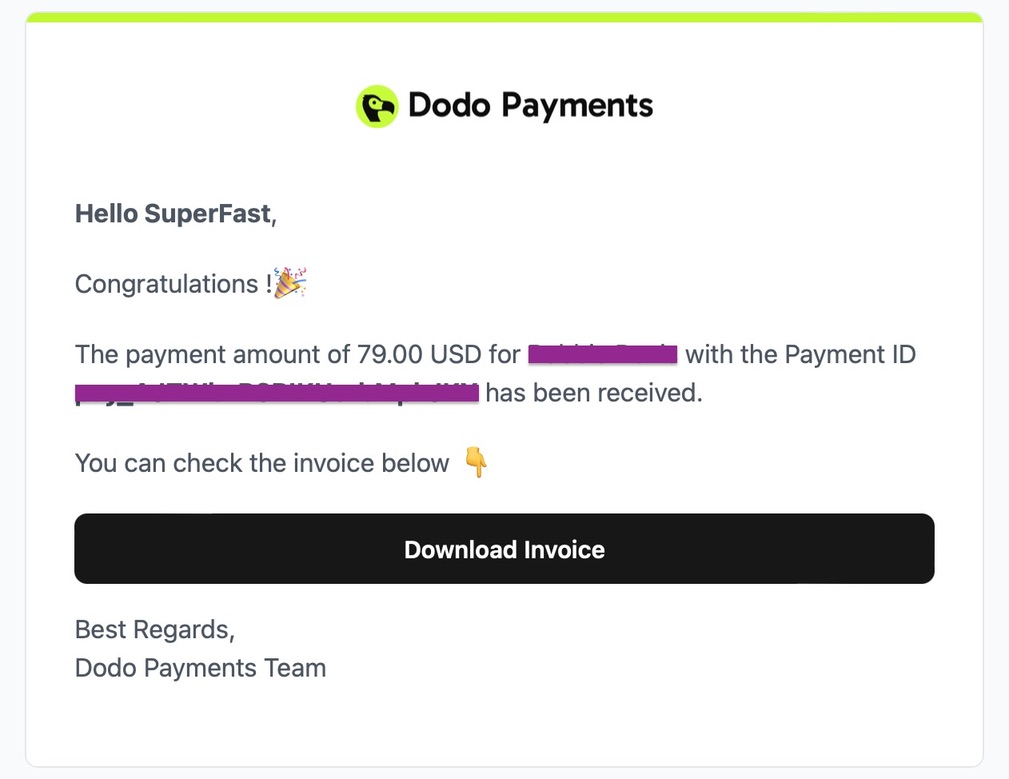
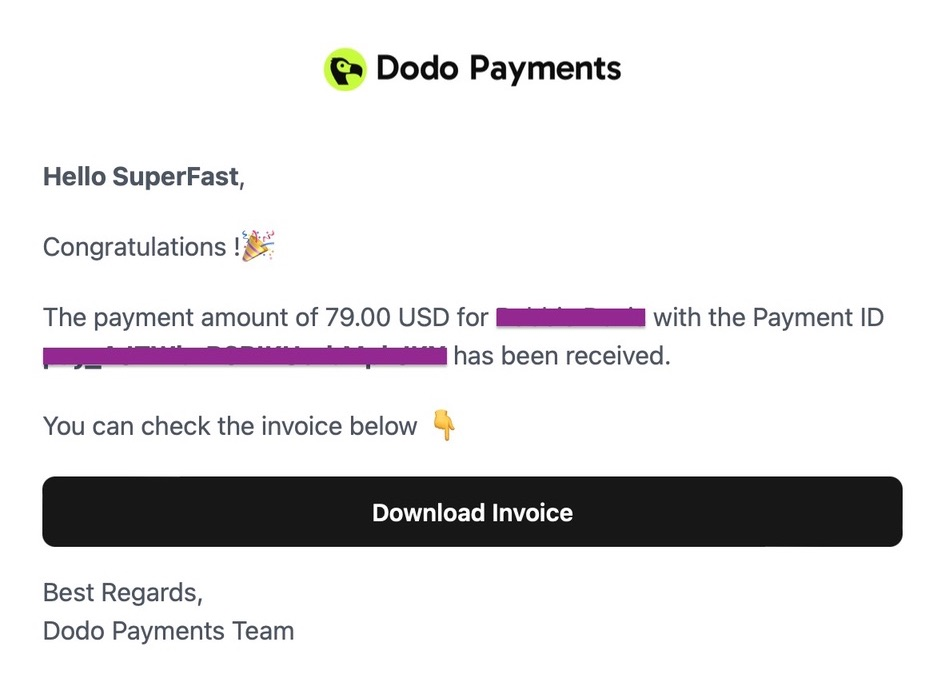
init

diff --git a/app/page.tsx b/app/page.tsx
@@ -56,7 +56,7 @@ export default function Home() {
             and i finally made money out of it. first sale is always special.
           </p>
 
-          <img src="/img/0708A321-F5BA-4C89-AD06-8C8D9C4681E0_1_105_c.jpeg" alt="first sale screenshot" className="mt-4 rounded-lg shadow-md" />
+          <img src="/img/0708A321-F5BA-4C89-AD06-8C8D9C4681E0_1_105_c.jpeg" alt="first sale screenshot" className="mt-4" />
 
           <p>2025 is my year.</p>
 
@@ -72,7 +72,6 @@ export default function Home() {
             i was like, "i can do this too".
           </p>
 
-
           <p>
             some stuff above worked out.
             most of it didn't.
@@ -84,9 +83,8 @@ export default function Home() {
           </p>
 
           <p className="pb-8">
-            p.s. if you wanna contact me, i usually reply to every email under 300 characters with a clear ask. <a href="mailto:kalashvasaniya@gmail.com" target="_blank" className="text-blue-600 underline">email</a>
+            p.s. if you wanna contact me, <a href="mailto:kalashvasaniya@gmail.com" target="_blank" className="text-blue-600 underline">email</a>.
           </p>
-
 
         </div>
       </main>
